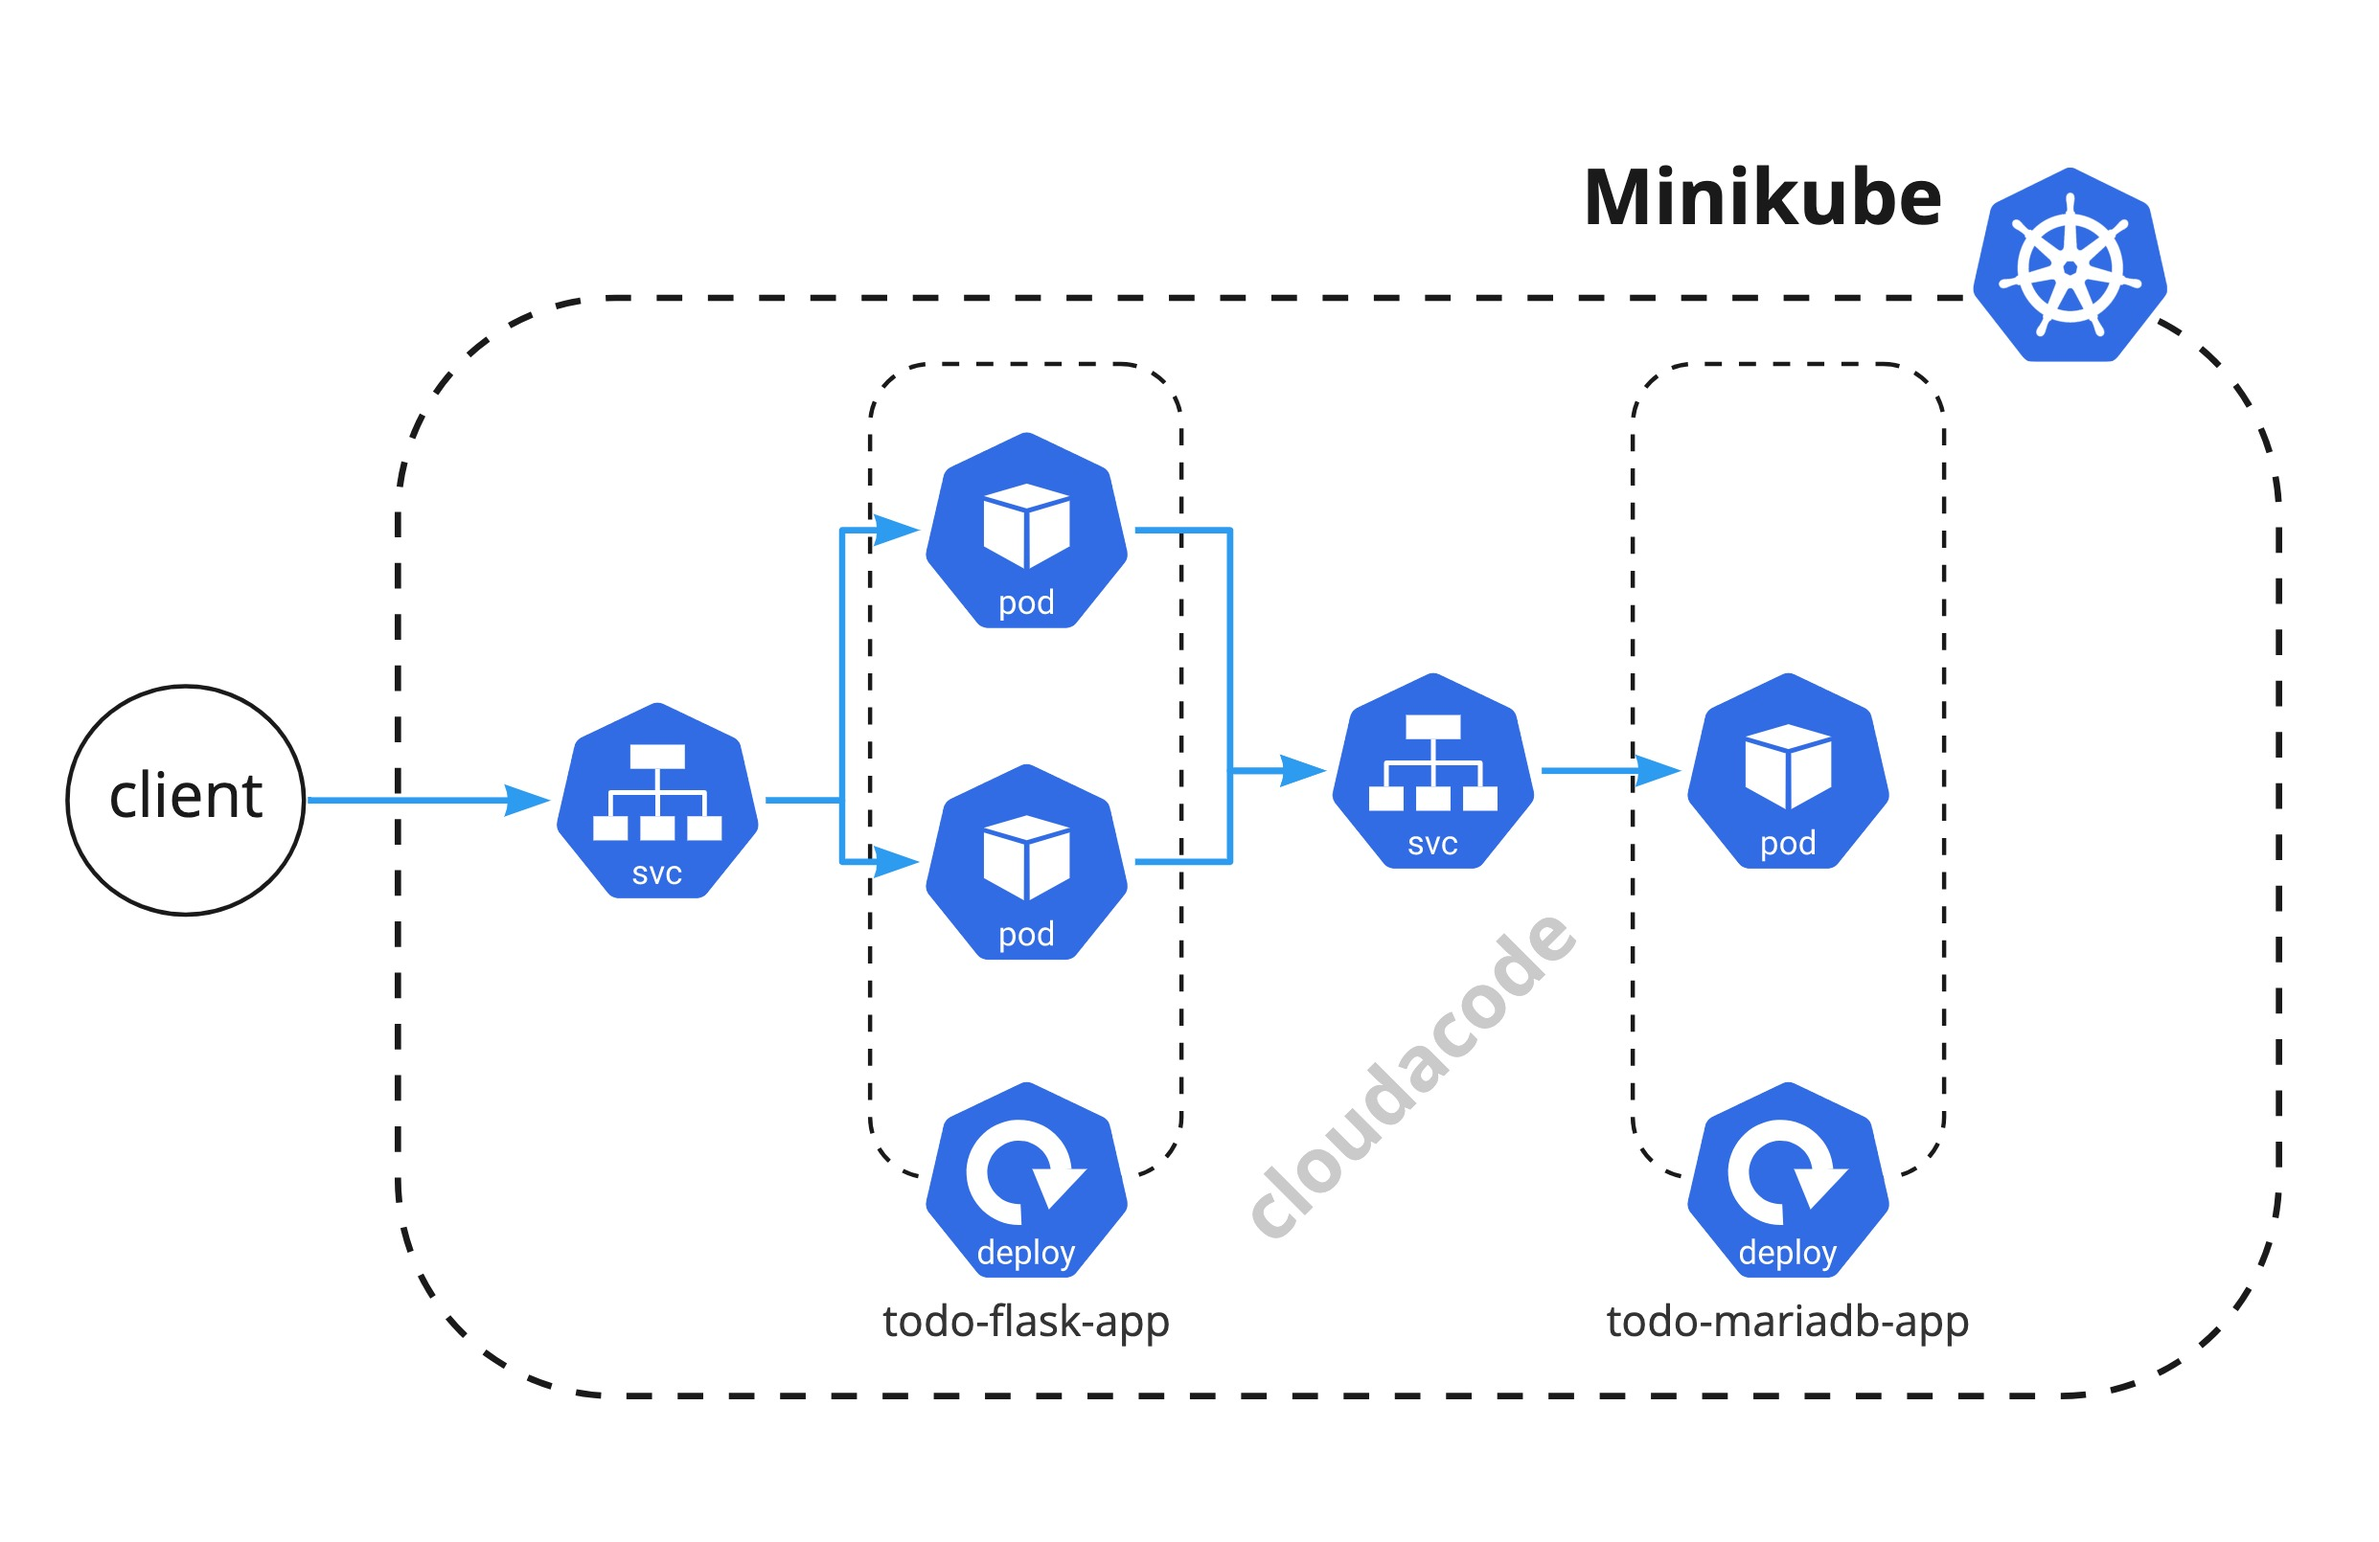
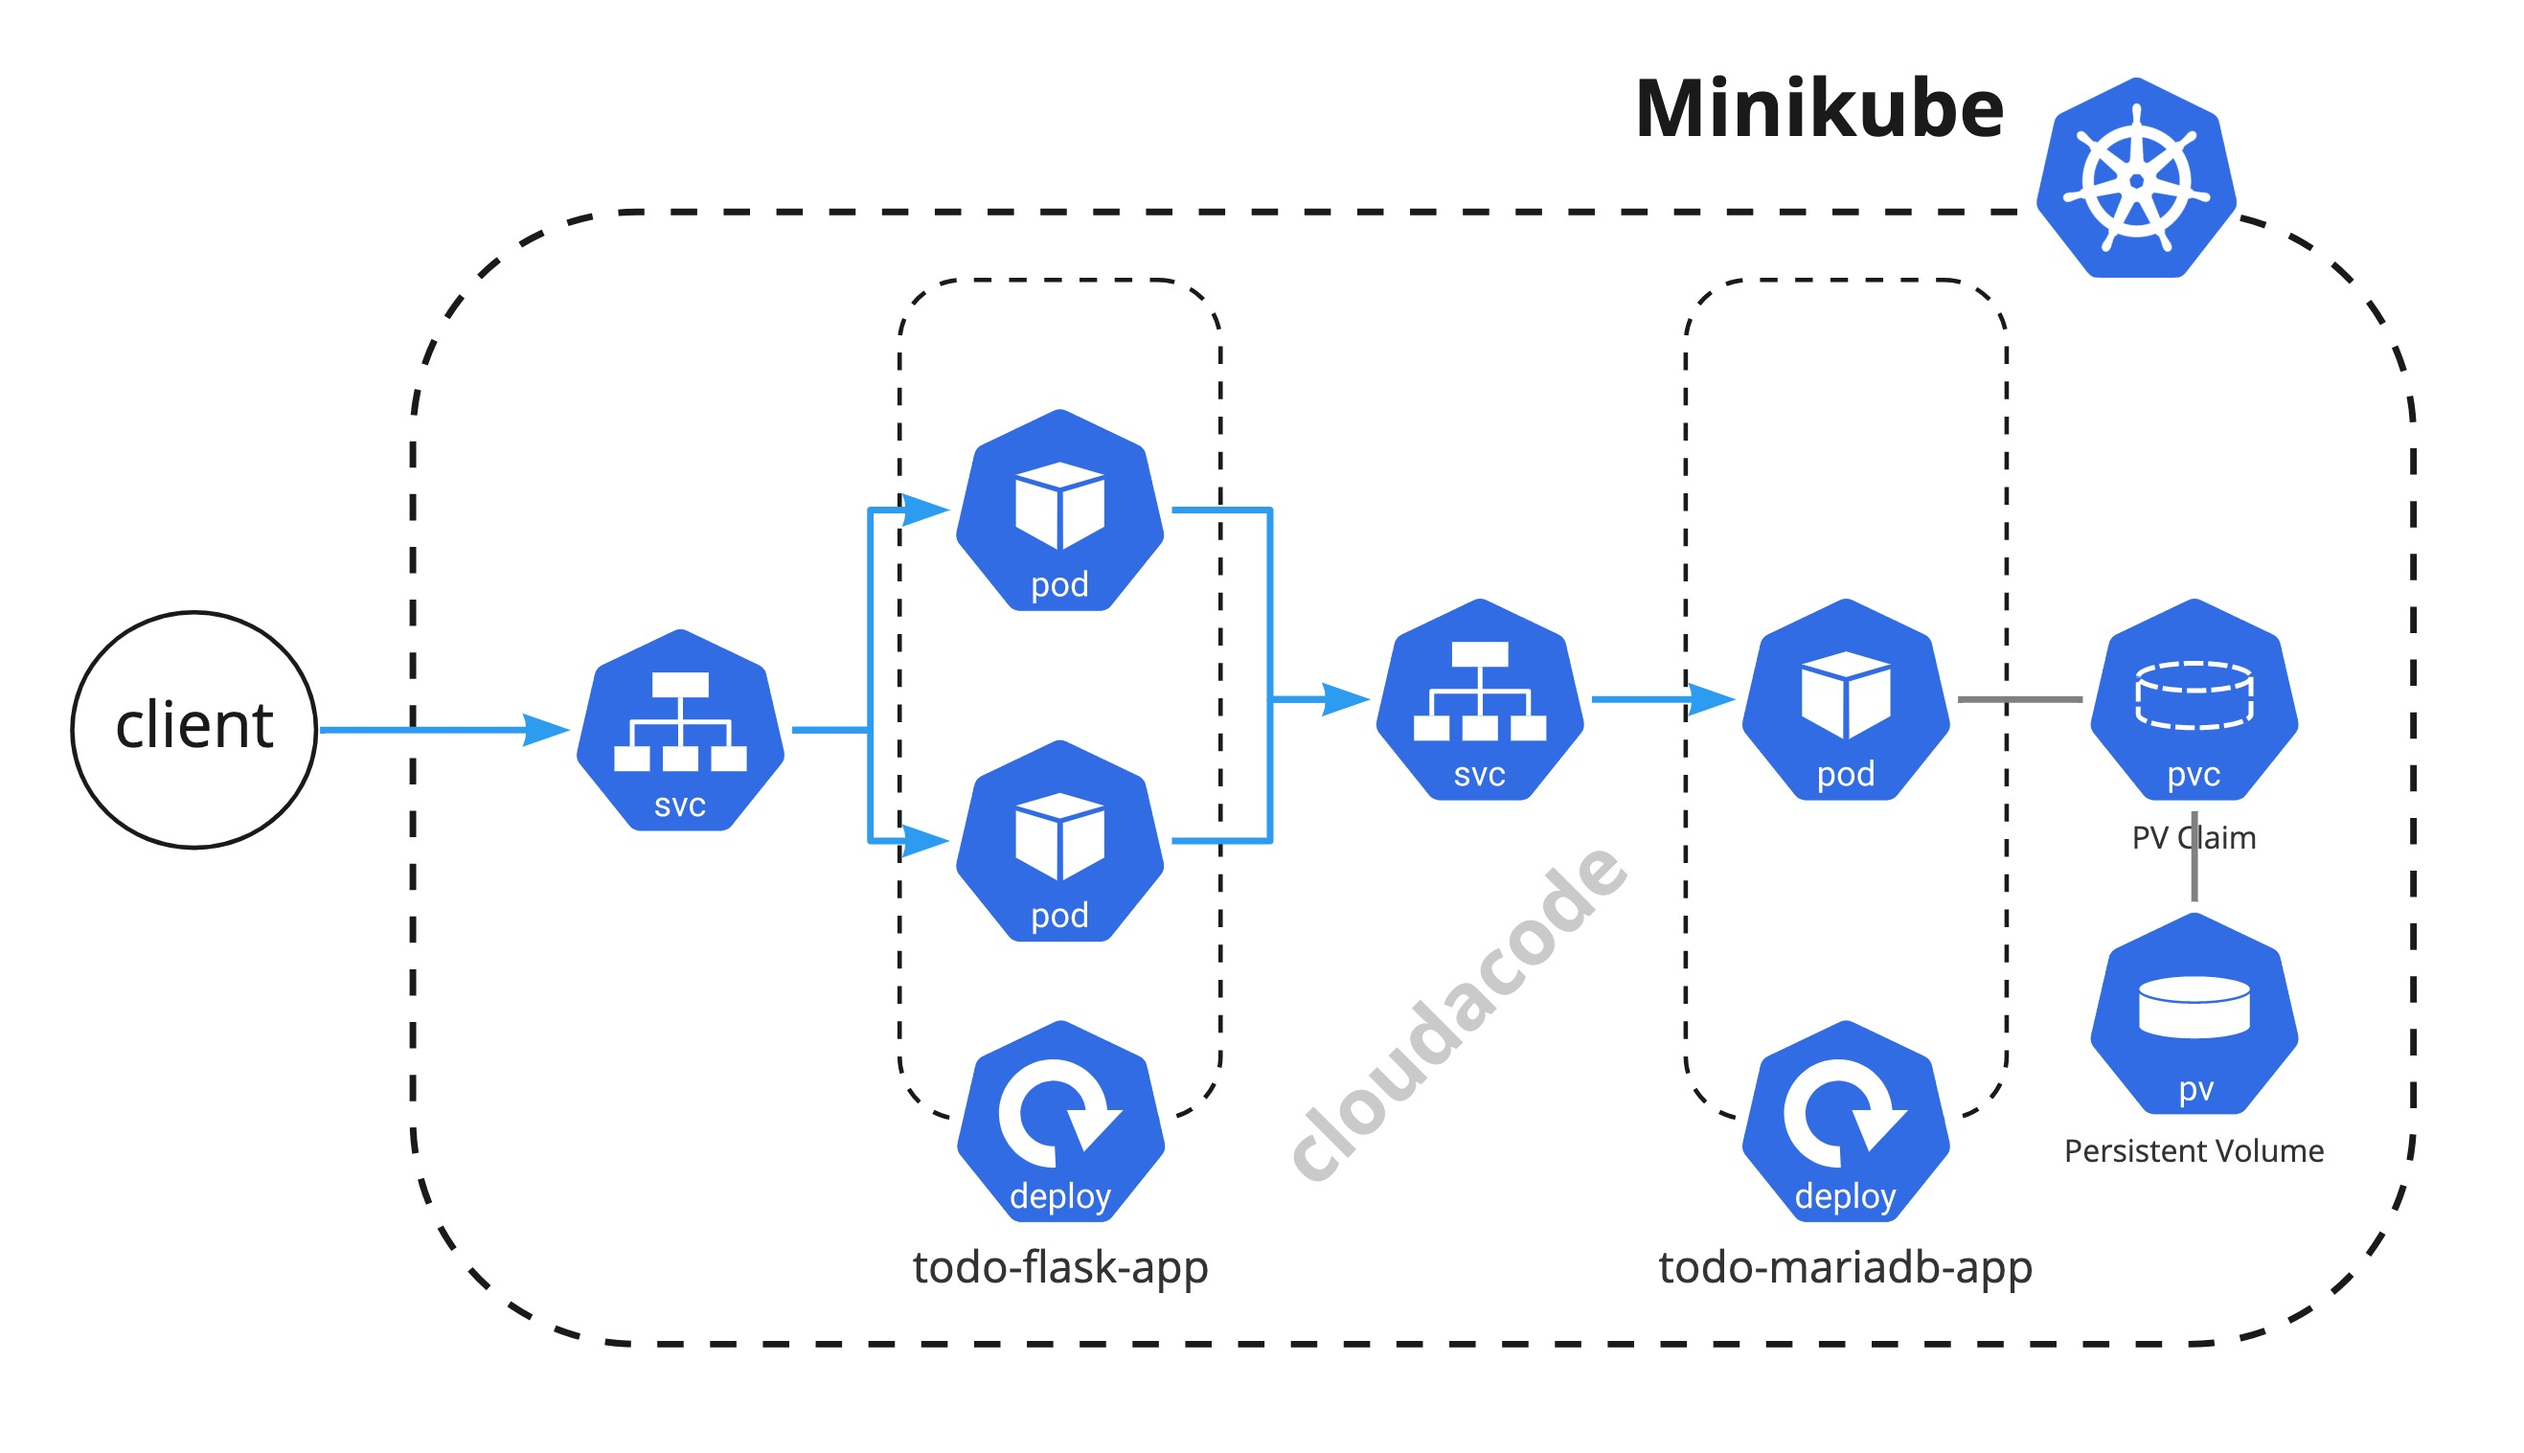
updated pv section

diff --git a/docs/kubernetes/minikube-todo-app.md b/docs/kubernetes/minikube-todo-app.md
@@ -2,7 +2,7 @@
 
 **Minikube를 활용하여 로컬환경에 Todo App 배포**
 
-이번 실습은 쿠버네티스에 python flask 어플리케이션과 mariaDB를 배포 해보고 접근 해보는 실습 입니다. 쿠버네티스에 어플리케이션 배포 방법과 서비스 노출 방법에 대해 이해 할 수 있습니다.
+이번 실습은 쿠버네티스에 Python flask 어플리케이션과 mariaDB를 배포 해보고 접근 해보는 실습 입니다. 쿠버네티스에 DB용 영구볼륨(PersistentVolume)구성 방법 및 어플리케이션 배포 방법과 서비스 노출 방법에 대해 이해 할 수 있습니다.
 
 ## 사전 준비 사항
 
@@ -26,9 +26,58 @@ Minikube 구성: [관련 링크](https://minikube.sigs.k8s.io/docs/start/)
 
 Run `minikube start` to start minikube locally
 
-### Todo app용 mariadb 배포
+### Todo Data Volume 생성
+
+Run `kubectl apply -f todo-mariadb-pv.yaml` to create persistent data volume for the mariadb.
+
+todo-mariadb-pv.yaml
+```yaml
+apiVersion: v1
+kind: PersistentVolume
+metadata:
+  name: task-data-volume
+  labels:
+    classname: mini
+spec:
+  storageClassName: mini
+  accessModes:
+    - ReadWriteOnce
+  capacity:
+    storage: 1Gi
+  hostPath:
+    path: /data/task-data/
+---
+apiVersion: v1
+kind: PersistentVolumeClaim
+metadata:
+  name: task-data-claim
+  labels:
+    classname: mini
+spec:
+  storageClassName: mini
+  accessModes:
+    - ReadWriteOnce
+  resources:
+    requests:
+      storage: 500Mi
+```
+
+Run `kubectl get pv,pvc -l classname=mini ` to verify the pv and pvc are created properly
+
+```bash
+$ kubectl get pv,pvc -l classname=mini
+NAME                                CAPACITY   ACCESS MODES   RECLAIM POLICY   STATUS   CLAIM                     STORAGECLASS   REASON   AGE
+persistentvolume/task-data-volume   1Gi        RWO            Retain           Bound    default/task-data-claim   mini                    11s
+
+NAME                                    STATUS   VOLUME             CAPACITY   ACCESS MODES   STORAGECLASS   AGE
+persistentvolumeclaim/task-data-claim   Bound    task-data-volume   1Gi        RWO            mini           11s
+```
+
+### Todo App용 Mariadb 배포
 
 Source code: [cloudacode/coolstuff/todo-mariadb](https://github.com/cloudacode/coolstuff/tree/main/todo-app/mariadb-app)
+
+Run `kubectl apply -f todo-mariadb-app.yaml` to deploy mariadb and service endpoint
 
 todo-mariadb-app.yaml
 ```yaml
@@ -67,11 +116,11 @@ spec:
   clusterIP: None
 ```
 
-Run `kubectl apply -f todo-mariadb-app.yaml` to deploy mariadb and service endpoint
-
-### Todo app용 flask 배포
+### Todo App용 Flask 배포
 
 Source code: [cloudacode/coolstuff/todo-flask-app](https://github.com/cloudacode/coolstuff/tree/main/todo-app/flask-app)
+
+Run `kubectl apply -f todo-flask-app.yaml` to deploy flask app and service endpoint
 
 todo-flask-app.yaml
 ```yaml
@@ -89,8 +138,8 @@ spec:
       app: todo-app
   strategy:
     rollingUpdate:
-      maxSurge: 20%
-      maxUnavailable: 20%
+      maxSurge: 1
+      maxUnavailable: 0
     type: RollingUpdate
   template:
     metadata:
@@ -128,8 +177,6 @@ spec:
   type: LoadBalancer
 ```
 
-Run `kubectl apply -f todo-flask-app.yaml` to deploy flask app and service endpoint
-
 Run `kubectl get svc` in check the exposed service. you may see the `EXTERNAL-IP` is `pending` status due to minikube doesn't have extra LB. 
 
 ```bash
@@ -161,13 +208,13 @@ NAME           TYPE           CLUSTER-IP       EXTERNAL-IP   PORT(S)        AGE
 todo-app-svc   LoadBalancer   10.102.161.248   127.0.0.1     80:31289/TCP   5m41s
 ``` 
 
-### Todo app 접근
+### Todo App 접근
 
 Open `http://127.0.0.1` in your favorite web browser and check the flask todo app
 
 ![Task Web](assets/task-web.png)
 
-### Todo app 리소스 확장
+### Todo App 리소스 확장
 
 Run `kubectl scale --replicas=3 deployment/todo-app` to scale out the app
 
